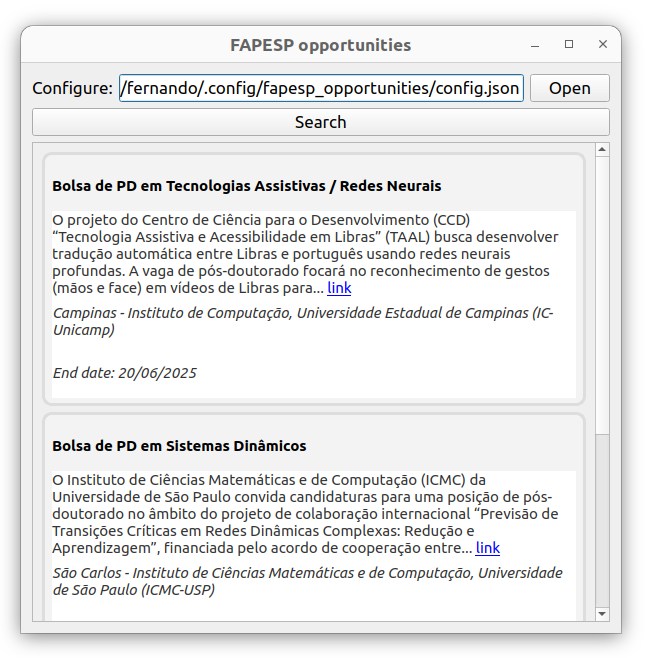
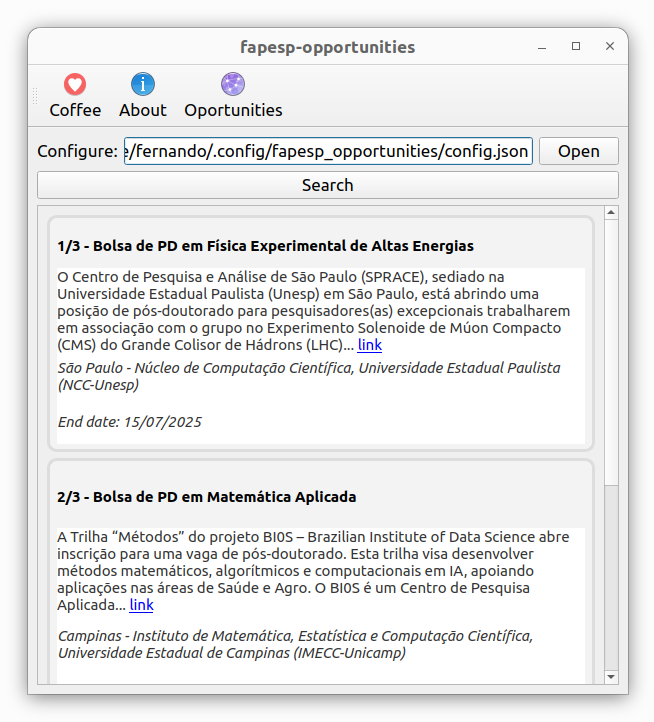
Agregando Coffee

diff --git a/src/fapesp_opportunities/program.py b/src/fapesp_opportunities/program.py
@@ -107,6 +107,12 @@ class FapespGUI(QMainWindow):
         self.addToolBar(toolbar)
         toolbar.setToolButtonStyle(Qt.ToolButtonTextUnderIcon)
         
+        # Coffee
+        coffee_action = QAction(QIcon.fromTheme("emblem-favorite"),"Coffee", self)
+        coffee_action.triggered.connect(self.on_coffee_action_click)
+        coffee_action.setToolTip("Buy me a coffee (TrucomanX)")
+        toolbar.addAction(coffee_action)
+        
         # 
         about_action = QAction(QIcon.fromTheme("help-about"),"About", self)
         about_action.triggered.connect(self.open_about)
@@ -119,10 +125,16 @@ class FapespGUI(QMainWindow):
         oport_action.setToolTip("Open the FAPESP site with oportunities.")
         toolbar.addAction(oport_action)
 
+    ############################################################################
+    def on_coffee_action_click(self):
+        QDesktopServices.openUrl(QUrl("https://ko-fi.com/trucomanx"))
+    
+    ############################################################################
     def open_oportunities(self):
         conf = configure.load_config(CONFIG_PATH)
         QDesktopServices.openUrl(QUrl(conf["url"]))
 
+    ############################################################################
     def open_about(self):
         data={
             "version": about.__version__,
@@ -136,13 +148,15 @@ class FapespGUI(QMainWindow):
             "url_bugs": about.__url_bugs__
         }
         show_about_window(data,self.icon_path)
-        
+
+    ############################################################################
     def abrir_editor(self):
         if os.name == 'nt':  # Windows
             os.startfile(CONFIG_PATH)
         elif os.name == 'posix':  # Linux/macOS
             subprocess.run(['xdg-open', CONFIG_PATH])
 
+    ############################################################################
     def buscar(self):
         # Limpa resultados anteriores
         for i in reversed(range(self.result_layout.count())):
@@ -164,7 +178,7 @@ class FapespGUI(QMainWindow):
             msg.setDefaultButton(QMessageBox.Ok)
             retorno = msg.exec_()
 
-
+    ############################################################################
     def criar_card(self, info,ID,L):
         card = QFrame()
         layout = QVBoxLayout(card)

diff --git a/src/fapesp_opportunities/about.py b/src/fapesp_opportunities/about.py
@@ -1,6 +1,6 @@
 # about.py
 
-__version__ = "0.1.5"
+__version__ = "0.1.6"
 __package__ = "fapesp_opportunities"
 __program_name__ = "fapesp-opportunities"
 __author__ = "Fernando Pujaico Rivera" 
